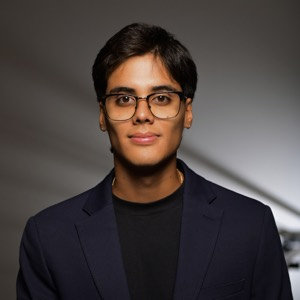
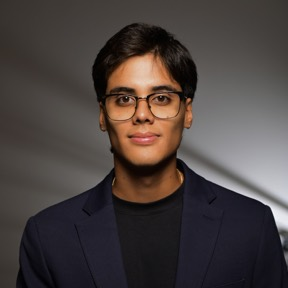
slogan

diff --git a/index.html b/index.html
@@ -19,7 +19,7 @@
 <img src="img/portrait.jpg" alt="Matias Barandiaran" class="portrait" width="150" height="150">
 <div class="intro">
 <h1>Matias Barandiaran</h1>
-<p class="tagline">I like to reason under uncertainty 🧠🎲🦀</p>
+<p class="tagline">Navigating the adjacent possible</p>
 <nav class="social">
 <a href="mailto:mbarandiaranr@gmail.com" title="Email" aria-label="Email"><svg viewBox="0 0 24 24" fill="none" stroke="currentColor" stroke-width="2" stroke-linecap="round" stroke-linejoin="round" aria-hidden="true"><rect x="2" y="4" width="20" height="16" rx="2"/><path d="m2 6 10 7 10-7"/></svg></a>
 <a href="https://github.com/mbaranr" title="GitHub" aria-label="GitHub"><svg viewBox="0 0 24 24" fill="currentColor" aria-hidden="true"><path d="M12 .297c-6.63 0-12 5.373-12 12 0 5.303 3.438 9.8 8.205 11.385.6.113.82-.258.82-.577 0-.285-.01-1.04-.015-2.04-3.338.724-4.042-1.61-4.042-1.61C4.422 18.07 3.633 17.7 3.633 17.7c-1.087-.744.084-.729.084-.729 1.205.084 1.838 1.236 1.838 1.236 1.07 1.835 2.809 1.305 3.495.998.108-.776.417-1.305.76-1.605-2.665-.3-5.466-1.332-5.466-5.930 0-1.31.465-2.38 1.235-3.22-.135-.303-.54-1.523.105-3.176 0 0 1.005-.322 3.3 1.23.96-.267 1.98-.399 3-.405 1.02.006 2.04.138 3 .405 2.28-1.552 3.285-1.23 3.285-1.23.645 1.653.24 2.873.12 3.176.765.84 1.23 1.91 1.23 3.22 0 4.61-2.805 5.625-5.475 5.92.42.36.81 1.096.81 2.22 0 1.606-.015 2.896-.015 3.286 0 .315.21.69.825.57C20.565 22.092 24 17.592 24 12.297c0-6.627-5.373-12-12-12"/></svg></a>
@@ -63,7 +63,7 @@
 <div class="entry-dot"></div>
 <img src="img/mlu.webp" alt="" width="44" height="23" class="wide">
 </div>
-<div class="desc">I was a research intern at the Martin Luther University of Halle-Wittenberg, where I developed a generative adversarial framework to detect anomalies in graphs.</div>
+<div class="desc">I was a research intern at the Martin Luther University of Halle-Wittenberg, where I developed a generative adversarial framework to detect anomalous graphs.</div>
 </div>
 <div class="entry">
 <div class="timespan">2023</div>

diff --git a/style.css b/style.css
@@ -11,7 +11,7 @@ a:visited { color: var(--vis); }
 header { display: flex; justify-content: center; align-items: center; gap: 1.6em; padding: .6em 0 .2em; }
 .portrait { flex: none; width: 150px; height: 150px; border-radius: 50%; }
 h1 { font-size: 1.75em; font-weight: normal; line-height: 1.15; margin: 0; }
-.tagline { margin: .3em 0 0; color: var(--dim); font-size: .95em; }
+.tagline { margin: .3em 0 0; color: var(--dim); font-size: .9em; }
 nav.social { display: flex; gap: 18px; margin-top: .8em; }
 nav.social a { color: var(--link); line-height: 0; padding: 2px; margin: -2px; }
 nav.social a:hover { color: var(--vis); }
